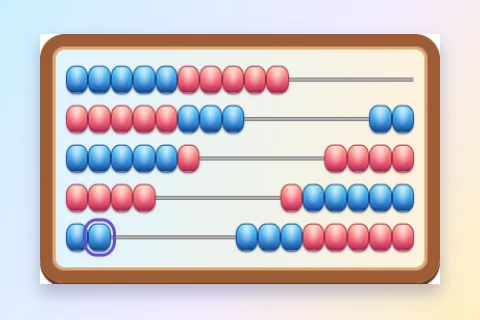
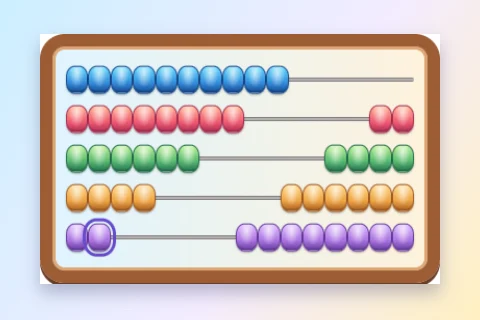
Unifica el color de las cuentas por fila del ábaco

Changed region(s): [[0.125, 0.1875, 0.625, 0.8125], [0.4688, 0.3125, 0.875, 0.8125]]

diff --git a/Abaco/abaco.html b/Abaco/abaco.html
@@ -8,13 +8,13 @@
   <link rel="stylesheet" href="../creditos.css">
   <link rel="stylesheet" href="../pantalla-completa.css">
   <link rel="stylesheet" href="../panel-plegable.css">
-  <link rel="stylesheet" href="abaco.css">
+  <link rel="stylesheet" href="abaco.css?v=2">
 </head>
 <body>
   <main id="appAbaco">
     <aside class="herramientas-abaco">
       <header>
-        <h1><img src="../iconos/abaco.webp" width="48" height="32" alt=""> <span>Mi ábaco de colores</span></h1>
+        <h1><img src="../iconos/abaco.webp?v=2" width="48" height="32" alt=""> <span>Mi ábaco de colores</span></h1>
         <label for="nombre">Nombre del niño</label>
         <input id="nombre" placeholder="Ej.: Gabriel" maxlength="40" autocomplete="given-name">
         <a href="../index.html" aria-label="Todas las aplicaciones" title="Todas las aplicaciones">⌂</a>
@@ -83,7 +83,7 @@
   <script src="abaco-textos.js"></script>
   <script src="../idioma-voz.js"></script>
   <script src="../matematicas-base.js"></script>
-  <script src="abaco.js"></script>
+  <script src="abaco.js?v=2"></script>
   <script src="../pantalla-completa.js"></script>
   <script src="../panel-plegable.js?v=abaco-1"></script>
   <script src="../nombre-compartido.js"></script>

diff --git a/Abaco/abaco.css b/Abaco/abaco.css
@@ -95,8 +95,11 @@ button:disabled { opacity: .62; cursor: default; }
   box-shadow: inset 0 -2px #0002, 0 1px 2px #0005; transform: translateY(-50%);
   transition: left .27s cubic-bezier(.22,.72,.31,1); touch-action: none;
 }
-.cuenta.azul { --claro:#66ddff; --base:#338cdb; --borde-cuenta:#17488e; }
-.cuenta.roja { --claro:#ffb591; --base:#ef5872; --borde-cuenta:#ac2d53; }
+.fila:nth-child(5n+1) { --claro: #66ddff; --base: #338cdb; --borde-cuenta: #17488e; }
+.fila:nth-child(5n+2) { --claro: #ffb591; --base: #ef5872; --borde-cuenta: #ac2d53; }
+.fila:nth-child(5n+3) { --claro: #bbf18f; --base: #56b771; --borde-cuenta: #24704d; }
+.fila:nth-child(5n+4) { --claro: #ffd98a; --base: #eda342; --borde-cuenta: #a65b23; }
+.fila:nth-child(5n+5) { --claro: #e0baff; --base: #aa73df; --borde-cuenta: #673aa0; }
 .fila.arrastrando .cuenta, .sin-transicion .cuenta { transition: none; }
 .fila.iluminada { background: #ffe35e4f; border-radius: 8px; }
 .fila.iluminada .cuenta[aria-pressed="true"] { box-shadow: inset 0 -2px #0002, 0 0 5px #cc8510; }

diff --git a/Abaco/abaco.js b/Abaco/abaco.js
@@ -41,7 +41,7 @@
       const cuentas = Array.from({length: 10}, (_, indice) => {
         const boton = document.createElement('button');
         boton.type = 'button';
-        boton.className = 'cuenta ' + ((indice < 5) !== (fila % 2 === 1) ? 'azul' : 'roja');
+        boton.className = 'cuenta';
         boton.dataset.fila = fila;
         boton.dataset.indice = indice;
         boton.tabIndex = indice === 0 ? 0 : -1;

diff --git a/index.html b/index.html
@@ -677,7 +677,7 @@
       {
         nombre: "Mi ábaco de colores",
         archivo: "Abaco/abaco.html",
-        imagenIcono: "iconos/abaco.webp",
+        imagenIcono: "iconos/abaco.webp?v=2",
         descripcion: "Mueve las cuentas de un ábaco de 50 o 100 y aprende a sumar y quitar con animaciones.",
         color: "azul"
       },
